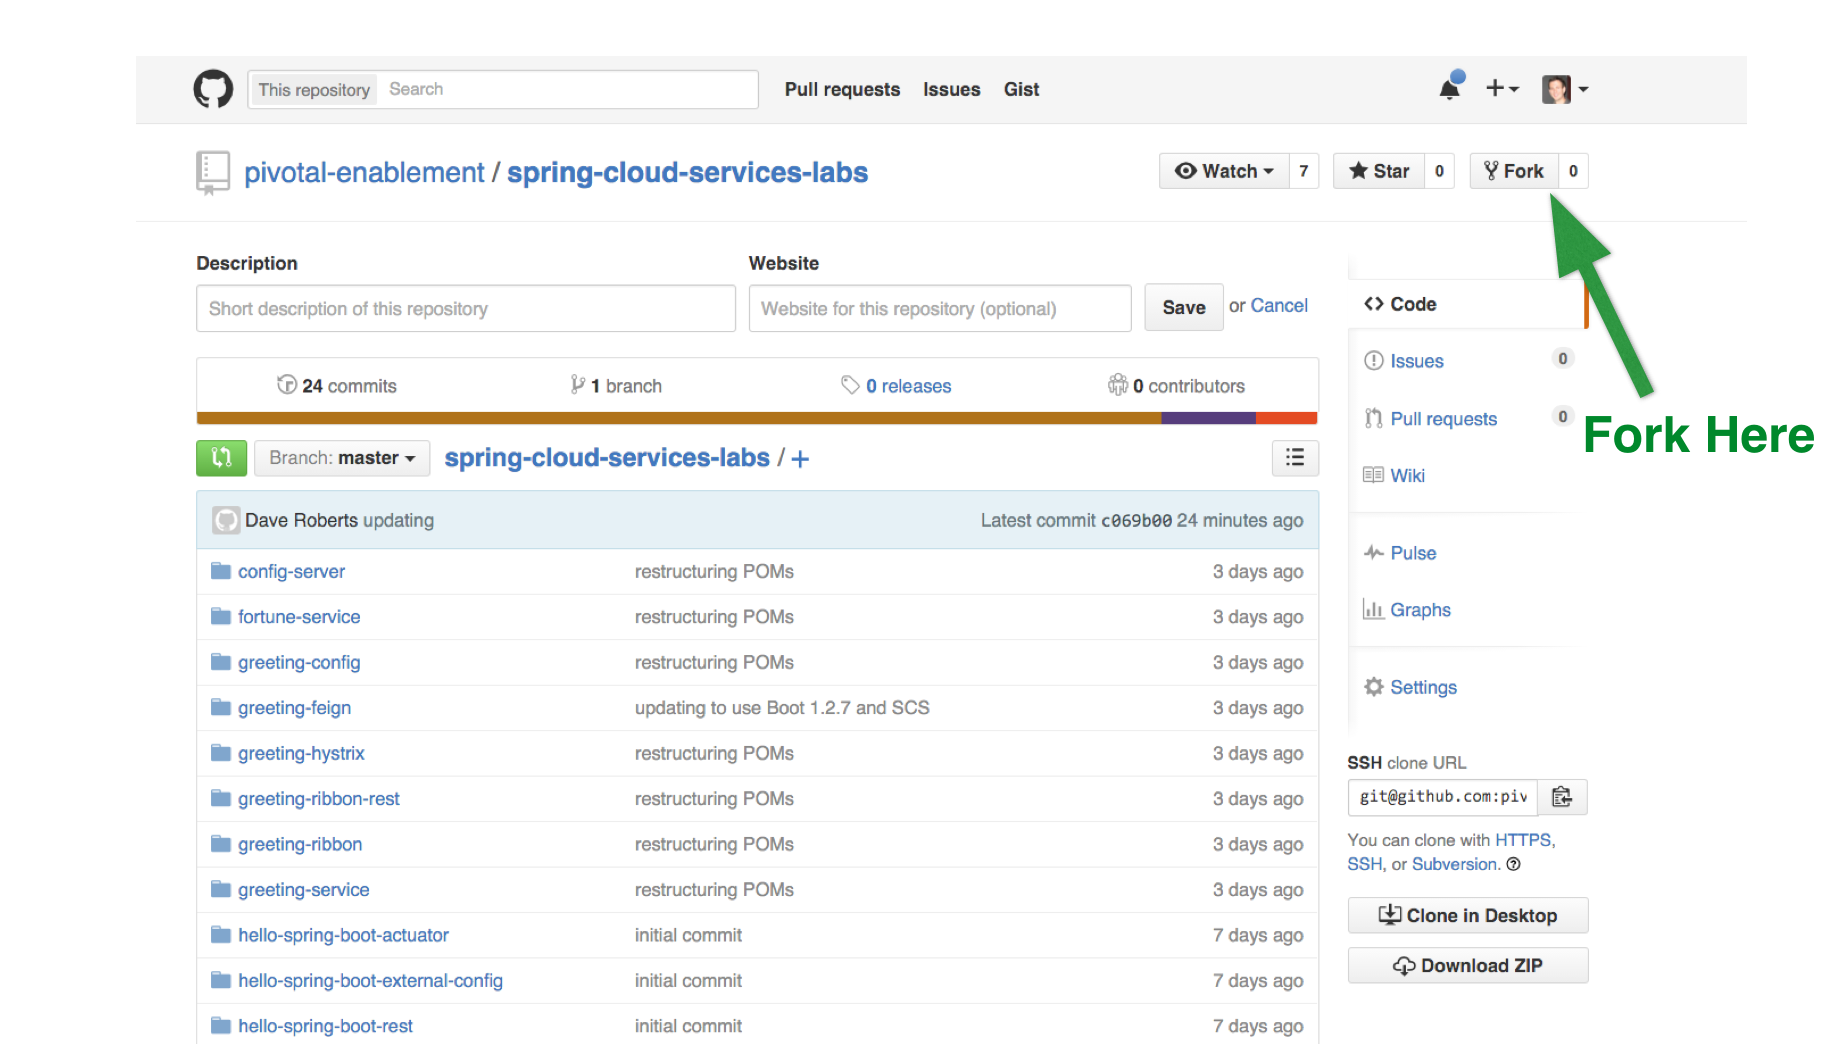
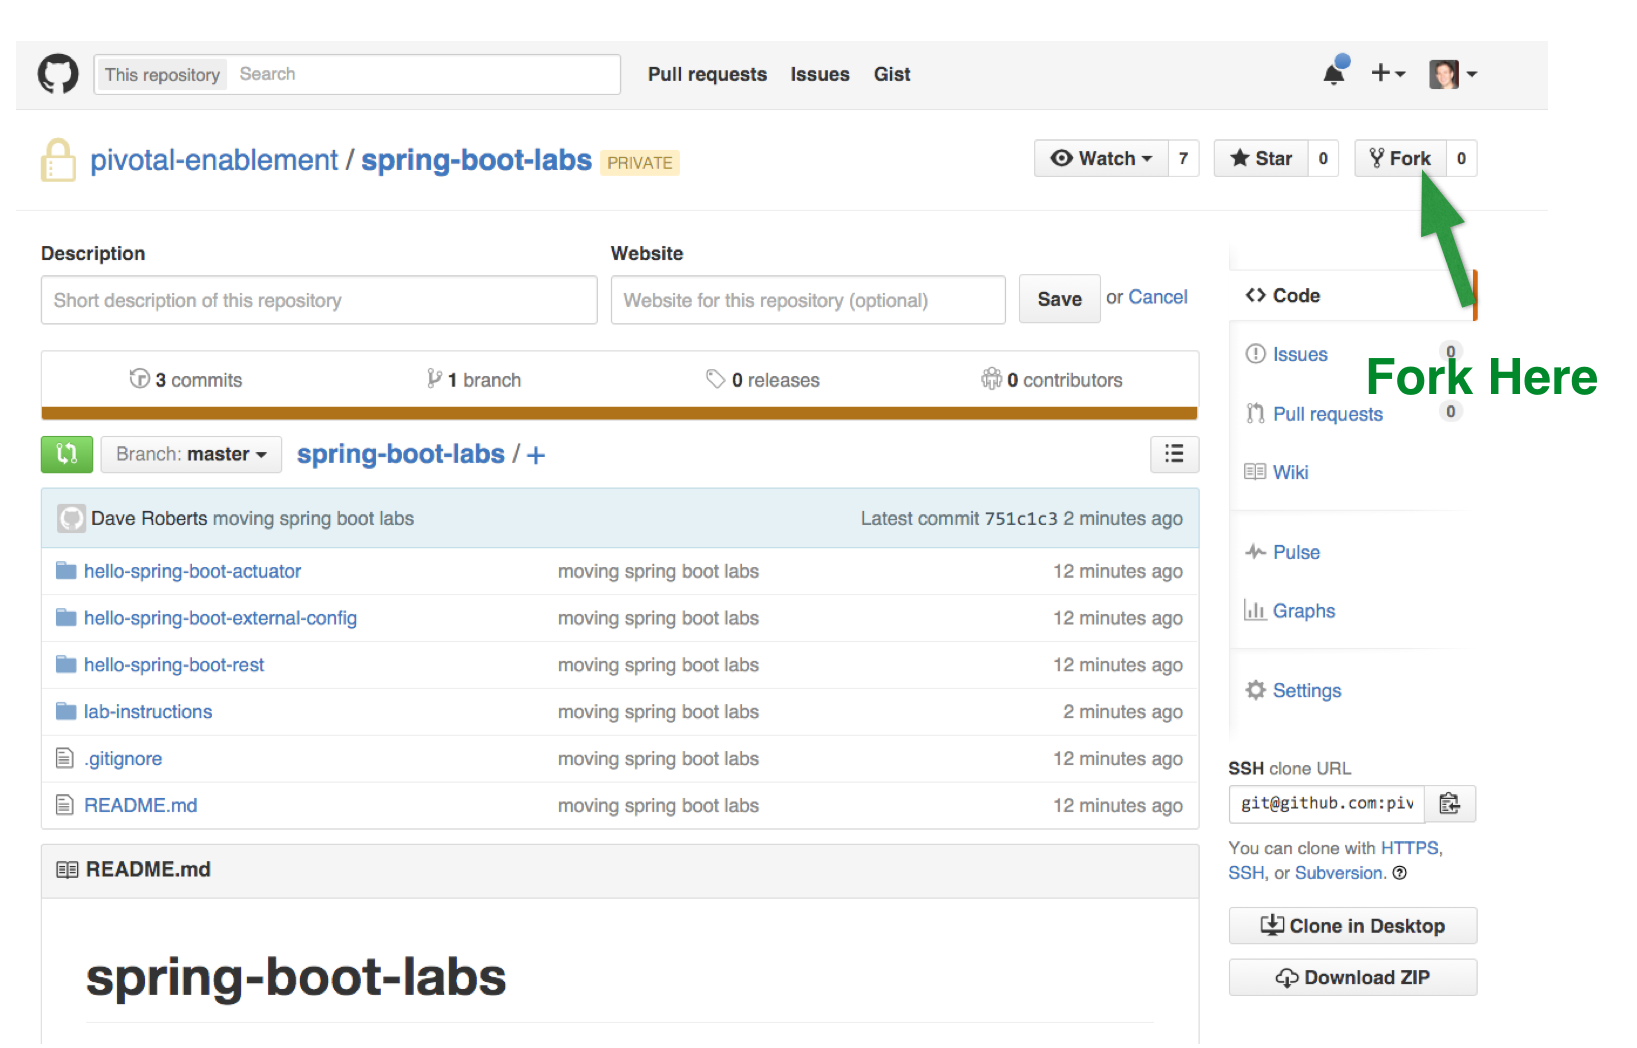
updating instructions

diff --git a/lab-instructions/setup.md b/lab-instructions/setup.md
@@ -1,8 +1,8 @@
 
 # Labs Setup
 
-### Set up the `spring-cloud-services-labs` Repo
-1) Fork the labs repo to your account.  Browse to: https://github.com/pivotal-enablement/spring-cloud-services-labs.  Then fork the repo.
+### Set up the `spring-boot-labs` Repo
+1) Fork the labs repo to your account.  Browse to: https://github.com/pivotal-enablement/spring-boot-labs.  Then fork the repo.
 ![fork](images/fork.png "fork")
 
 2) GitHub displays your new fork. Copy the HTTPS clone URL from your fork.

diff --git a/README.md b/README.md
@@ -1,6 +1,6 @@
 # spring-boot-labs
 
-Labs written using PCF.
+Labs written using [Spring Boot](http://projects.spring.io/spring-boot/).
 
 Local system [requirements](lab-instructions/requirements.md) or use the [Windows VM](lab-instructions/windows-vm.md)
 
